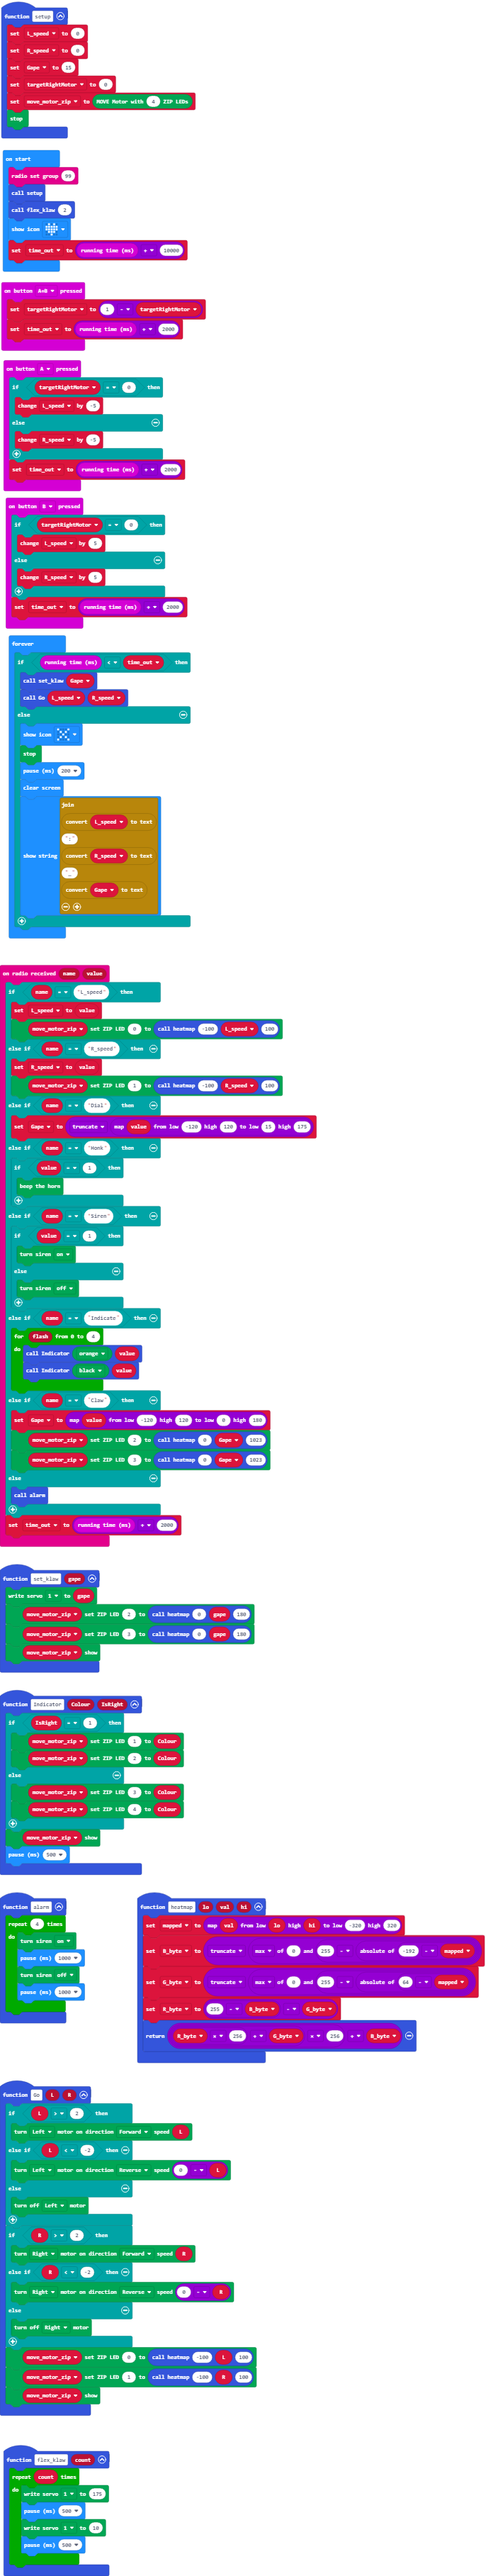
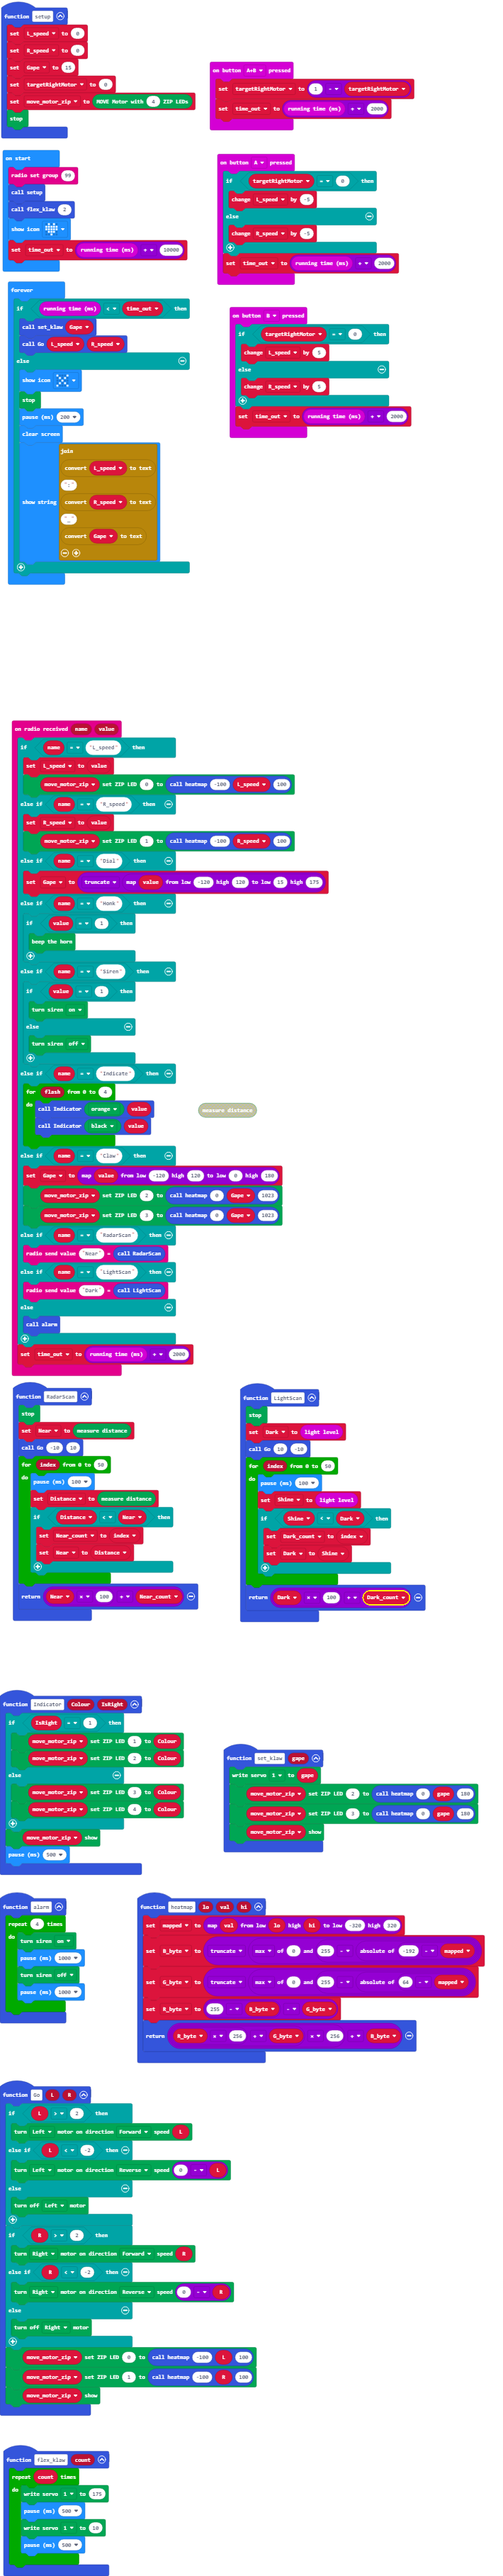
Removed Yellow Enabler; added indicators; added RadarScan; added LightScan

Changed region(s): [[0.0, 0.0, 0.9606, 0.7463], [0.0, 0.964, 0.031, 0.995]]

diff --git a/main.ts b/main.ts
@@ -31,6 +31,20 @@ function alarm () {
         basic.pause(1000)
     }
 }
+function LightScan () {
+    Kitronik_Move_Motor.stop()
+    Dark = input.lightLevel()
+    Go(10, -10)
+    for (let index = 0; index <= 50; index++) {
+        basic.pause(100)
+        Shine = input.lightLevel()
+        if (Shine < Dark) {
+            Dark_count = index
+            Dark = Shine
+        }
+    }
+    return Dark * 100 + Dark_count
+}
 function heatmap (lo: number, val: number, hi: number) {
     mapped = Math.map(val, lo, hi, -320, 320)
     B_byte = Math.trunc(Math.max(0, 255 - Math.abs(-192 - mapped)))
@@ -105,11 +119,29 @@ radio.onReceivedValue(function (name, value) {
         Gape = Math.map(value, -120, 120, 0, 180)
         move_motor_zip.setZipLedColor(2, heatmap(0, Gape, 1023))
         move_motor_zip.setZipLedColor(3, heatmap(0, Gape, 1023))
+    } else if (name == "RadarScan") {
+        radio.sendValue("Near", RadarScan())
+    } else if (name == "LightScan") {
+        radio.sendValue("Dark", LightScan())
     } else {
         alarm()
     }
     time_out = input.runningTime() + 2000
 })
+function RadarScan () {
+    Kitronik_Move_Motor.stop()
+    Near = Kitronik_Move_Motor.measure()
+    Go(-10, 10)
+    for (let index = 0; index <= 50; index++) {
+        basic.pause(100)
+        Distance = Kitronik_Move_Motor.measure()
+        if (Distance < Near) {
+            Near_count = index
+            Near = Distance
+        }
+    }
+    return Near * 100 + Near_count
+}
 function flex_klaw (count: number) {
     for (let index = 0; index < count; index++) {
         Kitronik_Move_Motor.writeServoPin(Kitronik_Move_Motor.ServoSelection.servo1, 175)
@@ -118,11 +150,17 @@ function flex_klaw (count: number) {
         basic.pause(500)
     }
 }
+let Near_count = 0
+let Distance = 0
+let Near = 0
 let Gape = 0
 let R_byte = 0
 let G_byte = 0
 let B_byte = 0
 let mapped = 0
+let Dark_count = 0
+let Shine = 0
+let Dark = 0
 let R_speed = 0
 let L_speed = 0
 let targetRightMotor = 0
